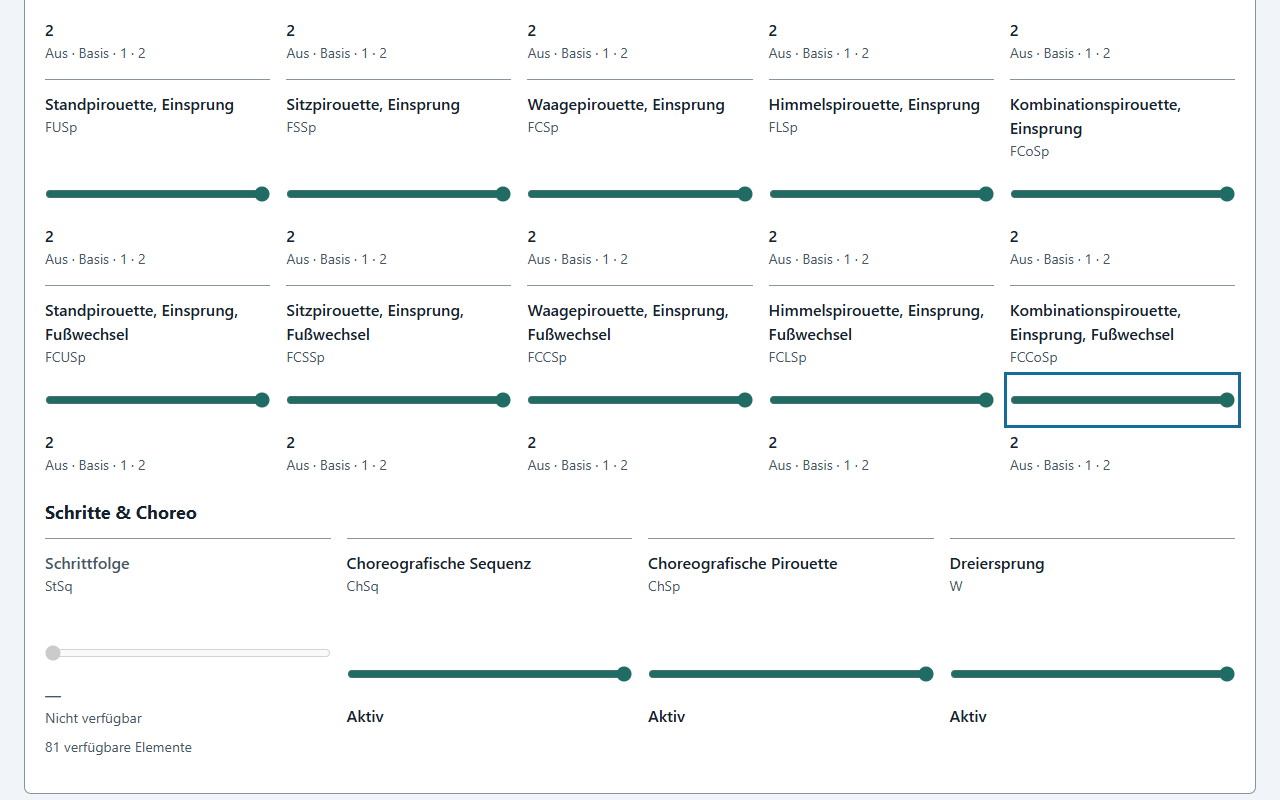
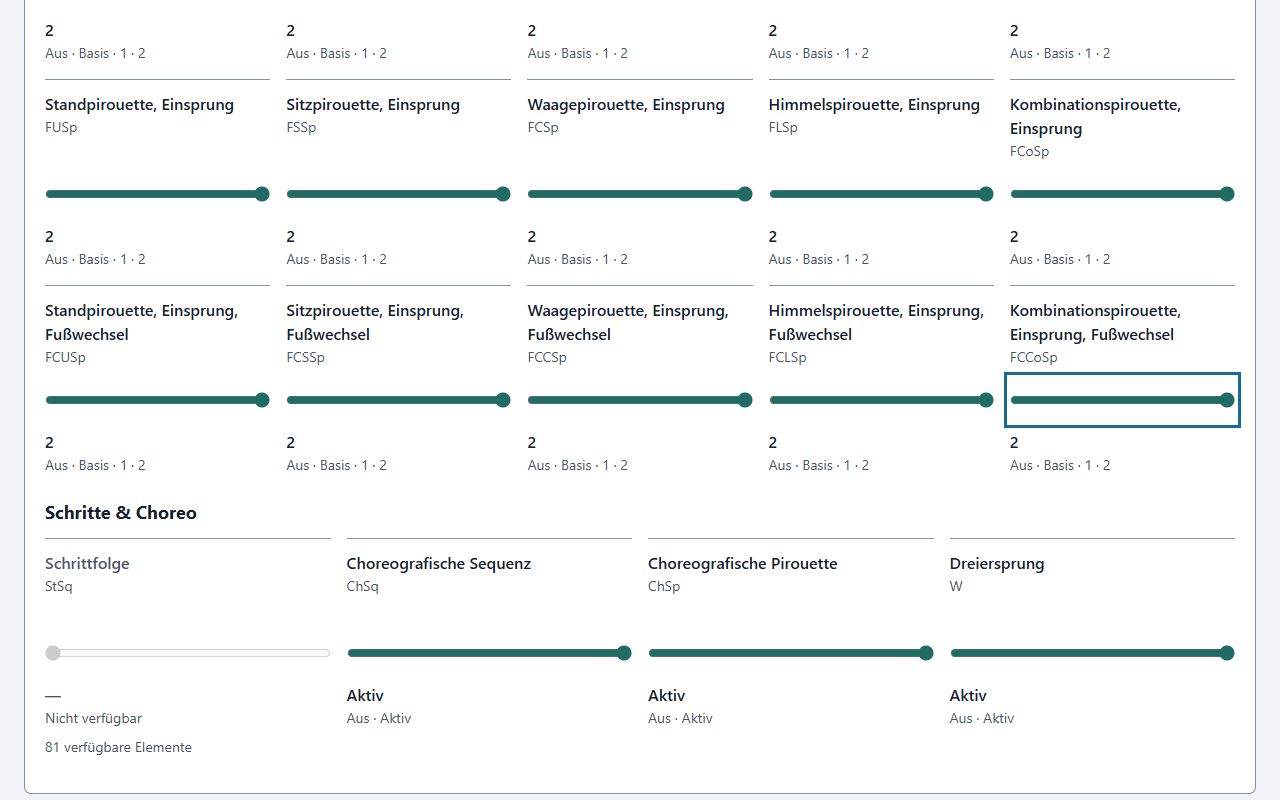
docs: record ability acceptance and final screenshots (#168)

Changed region(s): [[0.25, 0.8125, 0.9688, 0.9062]]

diff --git a/docs/c2-ability.md b/docs/c2-ability.md
@@ -55,6 +55,27 @@ Screenshots cover 1280×800, 390×844 and 320×844 in English, German and Russia
 | 390 | [Controls](evidence/168/ability-390-en.png) | [Controls](evidence/168/ability-390-de.png) | [Controls](evidence/168/ability-390-ru.png) |
 | 320 | [Controls](evidence/168/ability-320-en.png) | [Controls](evidence/168/ability-320-de.png) | [Controls](evidence/168/ability-320-ru.png) |
 
+The [previous compact presentation](evidence/168/before-1280.png) used smaller
+names and abbreviated readouts. Current [jump classes](evidence/168/jumps-1280-ru.png)
+remain explicit. Named removal and undo are shown at [1280](evidence/168/removal-1280.png),
+[390](evidence/168/removal-390.png) and [320](evidence/168/removal-320.png) pixels.
+
 The browser checks full names, 44px range targets, visible keyboard focus,
 bottom-navigation clearance and no horizontal page overflow. These are Chrome
 viewport checks, not physical touch hardware or screen-reader certification.
+
+Verification on 2026-11-14:
+
+- `npm run build --prefix web`: TypeScript and production build passed.
+- `C2_TEST_PORT=3161 npm test --prefix web -- --workers=1`: all 71 tests passed
+  against the real service, including the ten new ability scenarios. The first
+  full run passed 70 tests; the locale test used its existing fallback port 3161
+  while the service used 3157. The explicit shared port resolved that setup error.
+- `cargo test --manifest-path service/Cargo.toml --release --offline -- --test-threads=1`:
+  all 24 tests passed, including seven profiles and four workflows.
+  An initial parallel Debug run exited natively with `0xc000001d`; the complete
+  search group then passed serially. The slow Debug workflow matrix was stopped
+  after the complete Release suite supplied the native workflow evidence.
+- Independent Standards review: zero findings. Independent Spec/UI review with
+  UI/UX Pro Max: zero findings, including a second inspection of final screenshots.
+- `git diff --check` passed. The unchanged core and solver checks run in PR CI.
